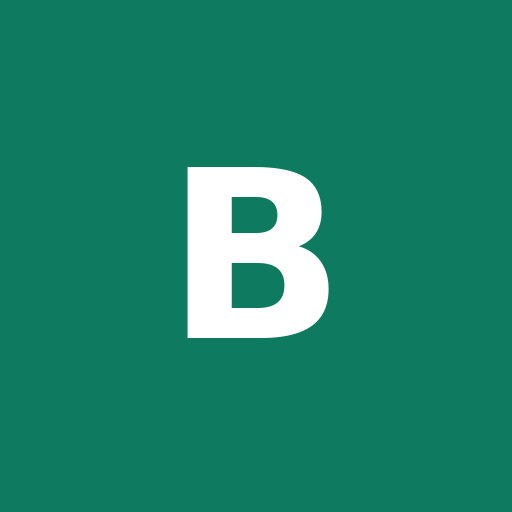
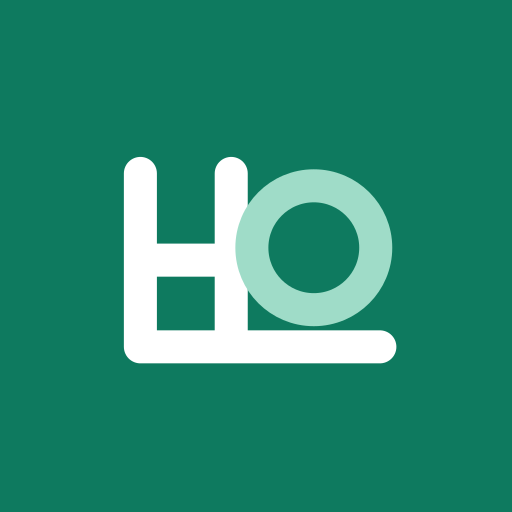
로고 G안(ㅂ이 받치고 ㅇ이 잇다) 적용·문구 '보험영업을 돕고, 고객과 설계사를 잇다' + 첫 화면 밝은 색·움직임(미리보기 단계 자동 진행, 떠다니는 알림, 보험사 흐르는 줄, 스크롤 등장)
Claude-Session: https://claude.ai/code/session_01YJhR1XxinSnADJmLsRr7Fm

Changed region(s): [[0.2188, 0.2812, 0.7812, 0.7188]]

diff --git a/index.html b/index.html
@@ -5,8 +5,8 @@
 <meta name="viewport" content="width=device-width,initial-scale=1,viewport-fit=cover">
 <meta name="theme-color" content="#0E7A5F">
 <link rel="manifest" href="/manifest.webmanifest">
-<link rel="icon" type="image/png" href="/assets/app/favicon-64.png">
-<link rel="apple-touch-icon" href="/assets/app/apple-touch-icon.png">
+<link rel="icon" type="image/png" href="/assets/app/favicon-64.png?v=2">
+<link rel="apple-touch-icon" href="/assets/app/apple-touch-icon.png?v=2">
 <meta name="apple-mobile-web-app-capable" content="yes">
 <meta name="mobile-web-app-capable" content="yes">
 <meta name="apple-mobile-web-app-title" content="보잇">
@@ -881,6 +881,96 @@ html{-webkit-text-size-adjust:100%;text-size-adjust:100%}
 .pre-top{flex-wrap:nowrap}.top-act{flex-wrap:nowrap;gap:4px}.top-act .btn{white-space:nowrap}@media (max-width:420px){.top-act [data-pre="pricing"]{display:none}}
 @media (max-width:900px){.lp-hero{grid-template-columns:minmax(0,1fr)}}
 @media (max-width:640px){.pre-top{padding-inline:12px}.pre-top .brand .bt b span{display:none}.top-act .lp-link{padding-inline:6px;font-size:14px}.ls-step{font-size:12px}.pre-top .brand small{display:none}.pre-top .btn.primary{padding:9px 12px;font-size:14px}.lp-points li{font-size:16px}.btn.lp-big{width:100%}.lp-cta{flex-direction:column;align-items:stretch}.lp-try{text-align:center}}
+
+/* 로고 G안 (2026-11-22): ㅂ이 받쳐 주고 ㅇ이 이어지는 모양 */
+.brand .logo svg{width:76%;height:76%;color:#fff;display:block}
+.pre-top .brand .logo{--logo-acc:#9FDCC8}
+
+/* 첫 화면 개편 (2026-11-22): 밝은 색 + 움직임 */
+.lp{position:relative;overflow:hidden;background:#F6FCF9}
+.lp-bg{position:absolute;inset:0 0 auto 0;height:900px;pointer-events:none;z-index:0}
+.lp-bg i{position:absolute;border-radius:50%;filter:blur(60px);opacity:.75;animation:lpBlob 18s ease-in-out infinite alternate}
+.lp-bg .b1{width:520px;height:520px;background:#A7F3D0;left:-120px;top:-140px}
+.lp-bg .b2{width:460px;height:460px;background:#BAE6FD;right:-80px;top:40px;animation-duration:22s;animation-delay:-6s}
+.lp-bg .b3{width:380px;height:380px;background:#FEF08A;left:38%;top:360px;opacity:.45;animation-duration:26s;animation-delay:-12s}
+@keyframes lpBlob{0%{transform:translate(0,0) scale(1)}50%{transform:translate(60px,40px) scale(1.12)}100%{transform:translate(-40px,70px) scale(.94)}}
+.lp>*:not(.lp-bg){position:relative;z-index:1}
+.lp-tag{display:inline-flex;align-items:center;gap:8px;background:#fff;border:1px solid #CDEFE2;color:#0B6B53;box-shadow:0 4px 14px rgba(16,150,110,.12)}
+.lp-tag i{width:8px;height:8px;border-radius:50%;background:#10B981;box-shadow:0 0 0 0 rgba(16,185,129,.6);animation:lpPulse 1.8s infinite}
+@keyframes lpPulse{70%{box-shadow:0 0 0 9px rgba(16,185,129,0)}100%{box-shadow:0 0 0 0 rgba(16,185,129,0)}}
+.lp-copy h1{color:#0B2B24}
+.lp-copy h1 em{background:linear-gradient(90deg,#0A8F6A,#0B86A8,#6D4CD6,#0A8F6A);background-size:300% 100%;-webkit-background-clip:text;background-clip:text;color:transparent;animation:lpGrad 8s linear infinite}
+@keyframes lpGrad{to{background-position:300% 0}}
+.lp-points li::before{background:linear-gradient(135deg,#10B981,#0EA5E9);content:"✓"}
+.lp-points b{color:#0A7A5C}
+.lp .btn.primary.lp-big{background:linear-gradient(135deg,#0A8F6A,#0B7FA0);border:0;font-size:19px;box-shadow:0 10px 26px rgba(11,127,160,.28);position:relative;overflow:hidden;transition:transform .15s,box-shadow .15s}
+.lp .btn.primary.lp-big:hover{transform:translateY(-2px);box-shadow:0 14px 32px rgba(11,127,160,.34)}
+.lp .btn.primary.lp-big::after{content:"";position:absolute;top:0;left:-60%;width:40%;height:100%;background:linear-gradient(100deg,transparent,rgba(255,255,255,.45),transparent);transform:skewX(-20deg);animation:lpShine 3.6s ease-in-out infinite}
+@keyframes lpShine{0%,60%{left:-60%}100%{left:130%}}
+.pre-top{position:sticky;top:0;z-index:20;background:rgba(255,255,255,.86);-webkit-backdrop-filter:blur(10px);backdrop-filter:blur(10px)}
+.pre-top .btn.primary{background:#0A7A5C;border-color:#0A7A5C}
+
+/* 오른쪽 화면 미리보기: 단계가 저절로 진행 */
+.lp-stage{position:relative;padding:64px 10px 60px}
+.lp-shot{position:relative;border:0;box-shadow:0 30px 70px rgba(11,60,80,.18),0 0 0 1px rgba(11,60,80,.06);animation:lpBob 6s ease-in-out infinite}
+@keyframes lpBob{50%{transform:translateY(-8px)}}
+.lp-float{position:absolute;z-index:2;display:flex;gap:10px;align-items:center;background:#fff;border-radius:14px;padding:10px 14px;box-shadow:0 12px 30px rgba(11,60,80,.16);font-size:13px;animation:lpFloat 5s ease-in-out infinite}
+.lp-float span{display:flex;flex-direction:column;line-height:1.35}.lp-float b{color:#0B2B24;font-size:13.5px}.lp-float small{color:#52615C;font-size:12px}
+.lp-float .dot{width:30px;height:30px;border-radius:10px;flex:none;display:grid;place-items:center}
+.lp-float .dot::after{content:"";width:10px;height:10px;border-radius:50%;background:#fff}
+.dot.ok{background:linear-gradient(135deg,#10B981,#059669)}.dot.sky{background:linear-gradient(135deg,#38BDF8,#0284C7)}.dot.sun{background:linear-gradient(135deg,#FBBF24,#F97316)}
+.lp-float.f1{left:-10px;top:6px}
+.lp-float.f2{right:10px;bottom:4px;animation-delay:-1.6s}
+.lp-float.f3{right:-10px;top:0;animation-delay:-3.2s}
+@keyframes lpFloat{50%{transform:translateY(-10px)}}
+.ls-step b{transition:background .3s,color .3s,transform .3s}
+.lp-shot .ls-step b.on{background:linear-gradient(135deg,#10B981,#0EA5E9);color:#fff;transform:scale(1.12)}
+.lp-shot .r1,.lp-shot .r2 em,.lp-shot .r3 em{opacity:0;transform:translateY(6px);transition:opacity .35s,transform .35s}
+.lp-shot[data-step="1"] .r1,.lp-shot[data-step="2"] .r1,.lp-shot[data-step="3"] .r1,.lp-shot[data-step="4"] .r1,.lp-shot[data-step="5"] .r1{opacity:1;transform:none}
+.lp-shot[data-step="2"] .r2 em,.lp-shot[data-step="3"] .r2 em,.lp-shot[data-step="4"] .r2 em,.lp-shot[data-step="5"] .r2 em{opacity:1;transform:none}
+.lp-shot[data-step="3"] .r3 em,.lp-shot[data-step="4"] .r3 em,.lp-shot[data-step="5"] .r3 em{opacity:1;transform:none}
+.lp-shot .r2 em:nth-child(2),.lp-shot .r3 em:nth-child(2){transition-delay:.25s}.lp-shot .r2 em:nth-child(3),.lp-shot .r3 em:nth-child(3){transition-delay:.5s}
+.lp-shot .ls-chips em.ok{background:#DCFCE7;color:#047857}
+.ls-msg{position:relative;display:grid}.ls-msg span{grid-area:1/1;transition:opacity .3s}
+.ls-msg .m1,.ls-msg .m2{opacity:0}
+.lp-shot[data-step="4"] .m0,.lp-shot[data-step="5"] .m0{opacity:0}.lp-shot[data-step="4"] .m1{opacity:1}
+.lp-shot[data-step="5"] .m2{opacity:1;color:#047857;font-weight:700}
+.lp-shot .ls-send b{background:linear-gradient(135deg,#0A8F6A,#0B7FA0);transition:transform .2s}
+.lp-shot[data-step="3"] .ls-send b{animation:lpPress 1s ease-in-out infinite}
+@keyframes lpPress{50%{transform:scale(1.06);box-shadow:0 0 0 6px rgba(16,185,129,.18)}}
+.ls-prog{height:6px;border-radius:99px;background:#E6F2EE;overflow:hidden}
+.ls-prog i{display:block;height:100%;width:0;background:linear-gradient(90deg,#10B981,#0EA5E9);transition:width 1.4s ease}
+.lp-shot[data-step="4"] .ls-prog i{width:70%}.lp-shot[data-step="5"] .ls-prog i{width:100%}
+.lp-shot .ls-mini div:nth-child(1){background:#ECFDF5}.lp-shot .ls-mini div:nth-child(2){background:#FFF7ED}.lp-shot .ls-mini div:nth-child(3){background:#EFF6FF}
+#lp-cnt{display:inline-block;transition:transform .3s}#lp-cnt.bump{transform:scale(1.25);color:#047857}
+
+/* 보험사 이름 흐르는 줄 */
+.lp-ins{max-width:1200px;margin:0 auto 8px;padding:0 clamp(16px,4vw,48px)}
+.lp-ins p{margin:0 0 10px;text-align:center;font-size:14px;color:#52615C}
+.lp-mq{overflow:hidden;-webkit-mask-image:linear-gradient(90deg,transparent,#000 8%,#000 92%,transparent);mask-image:linear-gradient(90deg,transparent,#000 8%,#000 92%,transparent)}
+.lp-mq-t{display:flex;width:max-content;animation:lpMq 40s linear infinite}
+.lp-mq-t>span{display:flex}
+.lp-mq em{font-style:normal;white-space:nowrap;margin-right:10px;padding:8px 16px;border-radius:999px;background:#fff;border:1px solid #DDEFE8;font-size:14.5px;font-weight:600;color:#1F3A33}
+.lp-mq:hover .lp-mq-t{animation-play-state:paused}
+@keyframes lpMq{to{transform:translateX(-50%)}}
+
+/* 기능 카드: 카드마다 색 + 스크롤하면 떠오름 */
+.lp .feat .feat-card{transition:transform .2s,box-shadow .2s,border-color .2s}
+.lp .feat .feat-card:hover{transform:translateY(-6px);box-shadow:0 18px 40px rgba(11,60,80,.14)}
+.feat .c1 .fi{background:#D1FAE5}.feat .c1 .fi svg{stroke:#047857}.feat .c1:hover{border-color:#10B981}
+.feat .c2 .fi{background:#E0F2FE}.feat .c2 .fi svg{stroke:#0369A1}.feat .c2:hover{border-color:#0EA5E9}.feat .c2 .fgo{color:#0369A1}
+.feat .c3 .fi{background:#EDE9FE}.feat .c3 .fi svg{stroke:#6D28D9}.feat .c3:hover{border-color:#8B5CF6}.feat .c3 .fgo{color:#6D28D9}
+.feat .c4 .fi{background:#FFEDD5}.feat .c4 .fi svg{stroke:#C2410C}.feat .c4:hover{border-color:#F97316}.feat .c4 .fgo{color:#C2410C}
+.lp .rv{opacity:0;transform:translateY(24px);transition:opacity .6s ease,transform .6s ease}
+.lp .rv.in{opacity:1;transform:none}
+.lp .feat .rv:nth-child(2){transition-delay:.08s}.lp .feat .rv:nth-child(3){transition-delay:.16s}.lp .feat .rv:nth-child(4){transition-delay:.24s}
+.lp .lp-end{background:linear-gradient(120deg,#0A8F6A,#0B7FA0 60%,#5B4BC4);color:#fff}
+.lp .lp-end h2{color:#fff}.lp .lp-end p{color:#E3F5EF}
+.lp .lp-end .btn.primary.lp-big{background:#fff;color:#0A6B52;box-shadow:0 10px 26px rgba(0,0,0,.18)}
+.lp .lp-end .btn.primary.lp-big::after{background:linear-gradient(100deg,transparent,rgba(16,185,129,.25),transparent)}
+@media (max-width:900px){.lp-float.f3{display:none}.lp-float.f1{left:0}}
+@media (max-width:640px){.lp-float{font-size:12px;padding:8px 10px}.lp-float .dot{width:24px;height:24px}.lp-bg i{filter:blur(40px)}}
+@media (prefers-reduced-motion:reduce){.lp *,.lp *::before,.lp *::after{animation:none!important;transition:none!important}.lp .rv{opacity:1;transform:none}}
 /* 로그인·회원가입 화면 (2026-10-23): 가운데 정렬, 큰 글씨·큰 입력칸 */
 .pre [data-pre-view="login"],.pre [data-pre-view="signup"]{padding:clamp(24px,5vw,56px) 16px}
 .pre form.auth{width:100%;max-width:520px;margin:0 auto!important;padding:clamp(24px,4vw,40px);gap:18px;border-radius:16px;box-shadow:0 12px 36px rgba(18,61,53,.08)}
@@ -915,14 +1005,15 @@ html{-webkit-text-size-adjust:100%;text-size-adjust:100%}
 </div><datalist id="dl-ins"></datalist>
 <div id="pre" class="pre">
   <header class="pre-top">
-    <button class="brand" data-pre="landing" aria-label="보잇 첫 화면"><span class="logo">B</span><span class="bt"><b>보잇<span>BOIT</span></b><small>고객을 잇고, 영업을 돕다</small></span></button>
+    <button class="brand" data-pre="landing" aria-label="보잇 첫 화면"><span class="logo"><svg viewBox="0 0 100 100" aria-hidden="true"><path d="M22 30V72H80M44 30V72M22 51H44" fill="none" stroke="currentColor" stroke-width="9" stroke-linecap="round" stroke-linejoin="round"/><circle cx="64" cy="48" r="15" fill="none" stroke="var(--logo-acc,#9FDCC8)" stroke-width="9"/></svg></span><span class="bt"><b>보잇<span>BOIT</span></b><small>보험영업을 돕고, 고객과 설계사를 잇다</small></span></button>
     <div class="row top-act"><button class="btn lp-link" data-pre="pricing">이용요금</button><button class="btn lp-link" data-pre="login">로그인</button><button class="btn primary" data-pre="signup">무료 회원가입</button></div>
   </header>
 
-  <section data-pre-view="landing">
+  <section data-pre-view="landing" class="lp">
+    <div class="lp-bg" aria-hidden="true"><i class="b1"></i><i class="b2"></i><i class="b3"></i></div>
     <div class="lp-hero">
       <div class="lp-copy">
-        <span class="lp-tag">보험설계사 업무 앱</span>
+        <span class="lp-tag"><i></i>보험설계사 업무 앱</span>
         <h1>보험금 청구부터 고객관리까지,<br><em>한 번에 끝내세요</em></h1>
         <ul class="lp-points">
           <li><b>생명·손해보험사 43곳</b> 청구서를 자동으로 작성하고 팩스로 한 번에 보냅니다</li>
@@ -932,29 +1023,39 @@ html{-webkit-text-size-adjust:100%;text-size-adjust:100%}
         <div class="lp-cta"><button class="btn primary lp-big" data-pre="signup">무료 회원가입</button><button class="lnk lp-try" type="button" data-demo="home">가입 없이 둘러보기 →</button></div>
         <p class="lp-fine">시범 운영 기간에는 무료입니다 · 카드 등록 없이 가입</p>
       </div>
-      <div class="lp-shot" aria-hidden="true">
-        <div class="ls-bar"><i></i><i></i><i></i><span>보잇 · 보상청구</span></div>
-        <div class="ls-body">
-          <div class="ls-step"><b>1</b> 고객 정보 <b class="on">2</b> 서류 올리기 <b>3</b> 보험사 선택 <b>4</b> 발송</div>
-          <div class="ls-card">
-            <div class="ls-row"><span class="ls-k">고객</span><span>김○○ · 실손 통원</span></div>
-            <div class="ls-row"><span class="ls-k">서류</span><span class="ls-chips"><em>진료비영수증</em><em>세부내역서</em><em>처방전</em></span></div>
-            <div class="ls-row"><span class="ls-k">보험사</span><span class="ls-chips"><em class="ok">DB손해보험 ✓</em><em class="ok">KB손해보험 ✓</em><em class="ok">신한라이프 ✓</em></span></div>
+      <div class="lp-stage" aria-hidden="true">
+        <div class="lp-float f1"><i class="dot ok"></i><span><b>팩스 발송 완료</b><small>DB손해보험 외 2곳</small></span></div>
+        <div class="lp-float f2"><i class="dot sky"></i><span><b>보장분석 PDF</b><small>계약 12건 자동 등록</small></span></div>
+        <div class="lp-float f3"><i class="dot sun"></i><span><b>오늘 생일 고객 3명</b><small>카드 문자 보내기</small></span></div>
+        <div class="lp-shot" id="lp-shot" data-step="0">
+          <div class="ls-bar"><i></i><i></i><i></i><span>보잇 · 보상청구</span></div>
+          <div class="ls-body">
+            <div class="ls-step"><b data-s="1">1</b> 고객 정보 <b data-s="2">2</b> 서류 올리기 <b data-s="3">3</b> 보험사 선택 <b data-s="4">4</b> 발송</div>
+            <div class="ls-card">
+              <div class="ls-row r1"><span class="ls-k">고객</span><span>김○○ · 실손 통원</span></div>
+              <div class="ls-row r2"><span class="ls-k">서류</span><span class="ls-chips"><em>진료비영수증</em><em>세부내역서</em><em>처방전</em></span></div>
+              <div class="ls-row r3"><span class="ls-k">보험사</span><span class="ls-chips"><em class="ok">DB손해보험 ✓</em><em class="ok">KB손해보험 ✓</em><em class="ok">신한라이프 ✓</em></span></div>
+            </div>
+            <div class="ls-send"><span class="ls-msg"><span class="m0">청구서 3장 자동 작성 완료</span><span class="m1">3곳에 보내는 중…</span><span class="m2">3곳 발송 완료</span></span><b>3곳에 팩스 보내기</b></div>
+            <div class="ls-prog"><i></i></div>
+            <div class="ls-mini"><div><small>이번 달 청구</small><b id="lp-cnt">27건</b></div><div><small>오늘 생일 고객</small><b>3명</b></div><div><small>만기 30일 이내</small><b>5건</b></div></div>
           </div>
-          <div class="ls-send"><span>청구서 3장 자동 작성 완료</span><b>3곳에 팩스 보내기</b></div>
-          <div class="ls-mini"><div><small>이번 달 청구</small><b>27건</b></div><div><small>오늘 생일 고객</small><b>3명</b></div><div><small>만기 30일 이내</small><b>5건</b></div></div>
         </div>
       </div>
     </div>
+    <div class="lp-ins">
+      <p>청구서를 바로 보낼 수 있는 보험사</p>
+      <div class="lp-mq"><div class="lp-mq-t"><em>DB손해보험</em><em>KB손해보험</em><em>삼성화재</em><em>현대해상</em><em>메리츠화재</em><em>한화손해보험</em><em>흥국화재</em><em>NH농협손해보험</em><em>롯데손해보험</em><em>하나손해보험</em><em>삼성생명</em><em>한화생명</em><em>교보생명</em><em>신한라이프</em><em>미래에셋생명</em><em>메트라이프</em><em>동양생명</em><em>KB라이프</em><em>라이나생명</em><em>AIA생명</em><em>ABL생명</em><em>DB생명</em><em>NH농협생명</em><em>KDB생명</em><span aria-hidden="true"><em>DB손해보험</em><em>KB손해보험</em><em>삼성화재</em><em>현대해상</em><em>메리츠화재</em><em>한화손해보험</em><em>흥국화재</em><em>NH농협손해보험</em><em>롯데손해보험</em><em>하나손해보험</em><em>삼성생명</em><em>한화생명</em><em>교보생명</em><em>신한라이프</em><em>미래에셋생명</em><em>메트라이프</em><em>동양생명</em><em>KB라이프</em><em>라이나생명</em><em>AIA생명</em><em>ABL생명</em><em>DB생명</em><em>NH농협생명</em><em>KDB생명</em></span></div></div>
+    </div>
     <div class="wrap">
-      <h2 class="lp-h2">설계사가 매일 하는 일, 보잇 하나로</h2>
+      <h2 class="lp-h2 rv">설계사가 매일 하는 일, 보잇 하나로</h2>
       <div class="feat">
-        <button class="panel feat-card" type="button" data-demo="claim"><span class="fi" aria-hidden="true"><svg viewBox="0 0 24 24"><path d="M6 3h9l3 3v15H6z"/><path d="M9 10h6M9 14h6M9 18h3"/></svg></span><h3>보상청구</h3><p>서류 한 번 올리면 보험사 여러 곳에 동시 청구</p><span class="fgo">둘러보기 →</span></button>
-        <button class="panel feat-card" type="button" data-demo="customers"><span class="fi" aria-hidden="true"><svg viewBox="0 0 24 24"><circle cx="9" cy="8" r="3.5"/><path d="M3 20c0-3.3 2.7-6 6-6s6 2.7 6 6"/><path d="M16 4.5a3.5 3.5 0 010 7M18 14c2 .8 3 2.8 3 6"/></svg></span><h3>고객관리</h3><p>계약·상담·활동·청구 이력을 한 화면에</p><span class="fgo">둘러보기 →</span></button>
-        <button class="panel feat-card" type="button" data-demo="proposal"><span class="fi" aria-hidden="true"><svg viewBox="0 0 24 24"><path d="M4 20V10M10 20V4M16 20v-7M22 20H2"/></svg></span><h3>영업자료</h3><p>보장분석 리포트·전후 비교 제안서 바로 출력</p><span class="fgo">둘러보기 →</span></button>
-        <button class="panel feat-card" type="button" data-demo="sms"><span class="fi" aria-hidden="true"><svg viewBox="0 0 24 24"><path d="M4 5h16v11H9l-5 4z"/></svg></span><h3>문자·안부</h3><p>생일·명절·만기 문자를 내 번호로 보내기</p><span class="fgo">둘러보기 →</span></button>
+        <button class="panel feat-card c1 rv" type="button" data-demo="claim"><span class="fi" aria-hidden="true"><svg viewBox="0 0 24 24"><path d="M6 3h9l3 3v15H6z"/><path d="M9 10h6M9 14h6M9 18h3"/></svg></span><h3>보상청구</h3><p>서류 한 번 올리면 보험사 여러 곳에 동시 청구</p><span class="fgo">둘러보기 →</span></button>
+        <button class="panel feat-card c2 rv" type="button" data-demo="customers"><span class="fi" aria-hidden="true"><svg viewBox="0 0 24 24"><circle cx="9" cy="8" r="3.5"/><path d="M3 20c0-3.3 2.7-6 6-6s6 2.7 6 6"/><path d="M16 4.5a3.5 3.5 0 010 7M18 14c2 .8 3 2.8 3 6"/></svg></span><h3>고객관리</h3><p>계약·상담·활동·청구 이력을 한 화면에</p><span class="fgo">둘러보기 →</span></button>
+        <button class="panel feat-card c3 rv" type="button" data-demo="proposal"><span class="fi" aria-hidden="true"><svg viewBox="0 0 24 24"><path d="M4 20V10M10 20V4M16 20v-7M22 20H2"/></svg></span><h3>영업자료</h3><p>보장분석 리포트·전후 비교 제안서 바로 출력</p><span class="fgo">둘러보기 →</span></button>
+        <button class="panel feat-card c4 rv" type="button" data-demo="sms"><span class="fi" aria-hidden="true"><svg viewBox="0 0 24 24"><path d="M4 5h16v11H9l-5 4z"/></svg></span><h3>문자·안부</h3><p>생일·명절·만기 문자를 내 번호로 보내기</p><span class="fgo">둘러보기 →</span></button>
       </div>
-      <div class="lp-end">
+      <div class="lp-end rv">
         <div><h2>지금 무료로 가입해 보세요</h2><p>가입은 이메일만 있으면 1분이면 끝납니다.</p></div>
         <button class="btn primary lp-big" data-pre="signup">무료 회원가입</button>
       </div>
@@ -1052,7 +1153,7 @@ html{-webkit-text-size-adjust:100%;text-size-adjust:100%}
 </div>
 <div class="app" id="app" hidden>
   <aside class="rail">
-    <button class="brand" data-go="home" aria-label="보잇 홈"><span class="logo">B</span><span class="bt"><b>보잇<span>BOIT</span></b><small>고객을 잇고, 영업을 돕다</small></span></button>
+    <button class="brand" data-go="home" aria-label="보잇 홈"><span class="logo"><svg viewBox="0 0 100 100" aria-hidden="true"><path d="M22 30V72H80M44 30V72M22 51H44" fill="none" stroke="currentColor" stroke-width="9" stroke-linecap="round" stroke-linejoin="round"/><circle cx="64" cy="48" r="15" fill="none" stroke="var(--logo-acc,#9FDCC8)" stroke-width="9"/></svg></span><span class="bt"><b>보잇<span>BOIT</span></b><small>보험영업을 돕고, 고객과 설계사를 잇다</small></span></button>
     <div class="me" id="me">
       <div class="who"><span class="av" id="me-av"></span><div><b id="me-name"></b>님<br><small>잔여 <span class="num" id="me-days"></span>일 · <span id="me-plan"></span></small></div></div>
       <div class="acts"><button data-go="mypage"><svg class="ic" viewBox="0 0 24 24" aria-hidden="true"><circle cx="12" cy="8" r="4"/><path d="M4 21c1.5-4 4.5-6 8-6s6.5 2 8 6"/></svg>마이페이지</button><button id="logout">로그아웃</button><a id="adm-link" href="admin.html" hidden>관리자</a></div>
@@ -5612,7 +5713,7 @@ Object.assign(window,{mkSendText,mkOut,MK,renderKit,setSV:v=>{SV=v;},getSV:()=>S
 <script src="premcmp.js?v=7"></script>
 <script src="autosend.js?v=2"></script>
 <script src="cardsend.js?v=23"></script>
-<script src="notify.js?v=3"></script>
+<script src="notify.js?v=3"></script><script src="lp-motion.js?v=1" defer></script>
 <script>
 /* 앱 설치 (바탕화면·홈 화면 아이콘) */
 (function(){

diff --git a/lp-motion.js b/lp-motion.js
@@ -1,0 +1,35 @@
+// 첫 화면 움직임 (2026-11-22): 보상청구 미리보기 단계 자동 진행 + 스크롤하면 떠오르기
+(function(){
+  var reduce = window.matchMedia && matchMedia('(prefers-reduced-motion: reduce)').matches;
+
+  // 스크롤하면 떠오르기
+  var rv = document.querySelectorAll('.lp .rv');
+  if (reduce || !('IntersectionObserver' in window)) { rv.forEach(function(e){ e.classList.add('in'); }); }
+  else {
+    var io = new IntersectionObserver(function(es){
+      es.forEach(function(e){ if (e.isIntersecting) { e.target.classList.add('in'); io.unobserve(e.target); } });
+    }, { threshold: 0.15 });
+    rv.forEach(function(e){ io.observe(e); });
+  }
+
+  // 미리보기: 1 고객 → 2 서류 → 3 보험사 → 4 보내는 중 → 5 완료 → 처음부터
+  var shot = document.getElementById('lp-shot');
+  if (!shot) return;
+  var cnt = document.getElementById('lp-cnt');
+  var steps = shot.querySelectorAll('.ls-step b');
+  var wait = [700, 1300, 1600, 1700, 1500, 2600];
+  var n = 27, step = 0;
+  function show(k){
+    shot.setAttribute('data-step', k);
+    steps.forEach(function(b){ var s = +b.getAttribute('data-s'); b.classList.toggle('on', s === Math.min(Math.max(k,1),4)); });
+    if (k === 5 && cnt) { n++; cnt.textContent = n + '건'; cnt.classList.add('bump'); setTimeout(function(){ cnt.classList.remove('bump'); }, 400); }
+    if (k === 0 && n > 34) { n = 27; if (cnt) cnt.textContent = '27건'; }
+  }
+  if (reduce) { show(5); return; }
+  function tick(){
+    var visible = shot.offsetParent !== null && !document.hidden;
+    if (visible) { step = (step + 1) % 6; show(step); }
+    setTimeout(tick, visible ? wait[step] : 1000);
+  }
+  show(0); setTimeout(tick, 500);
+})();
